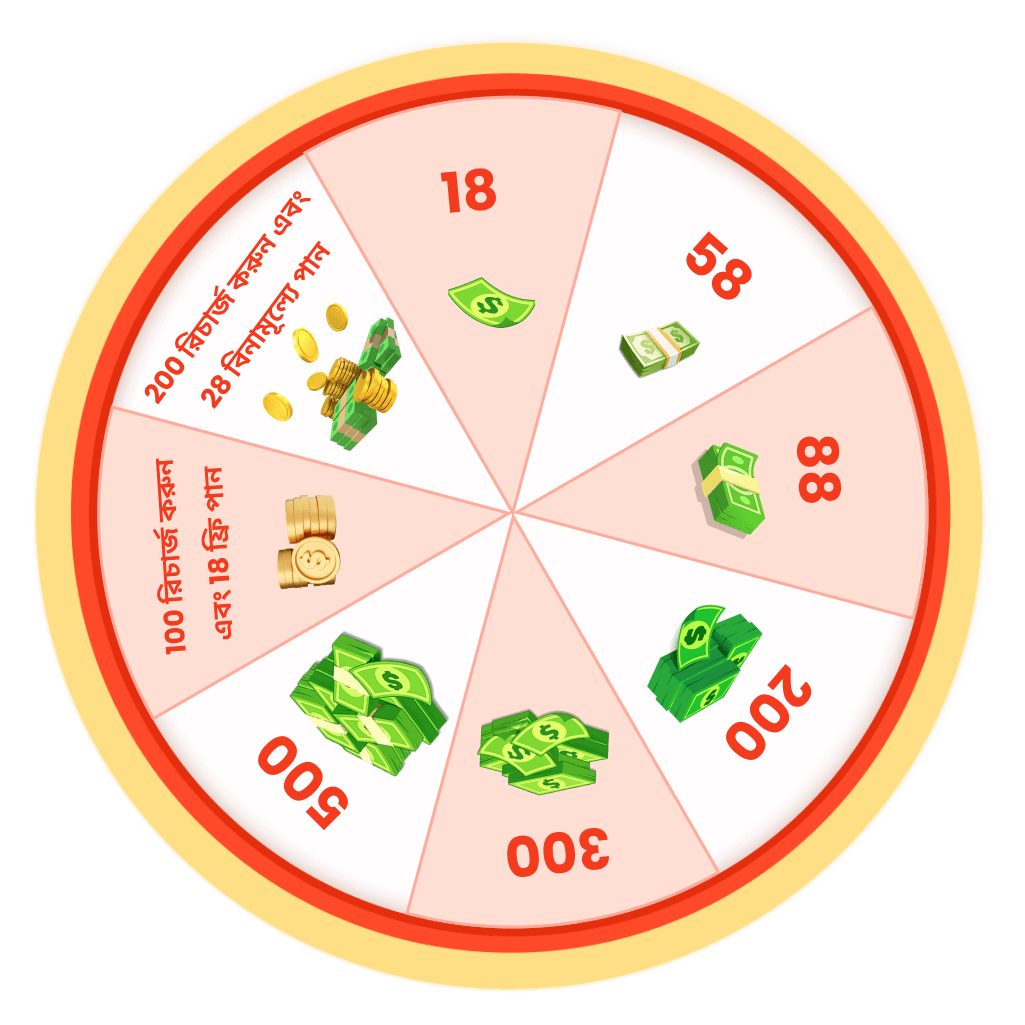
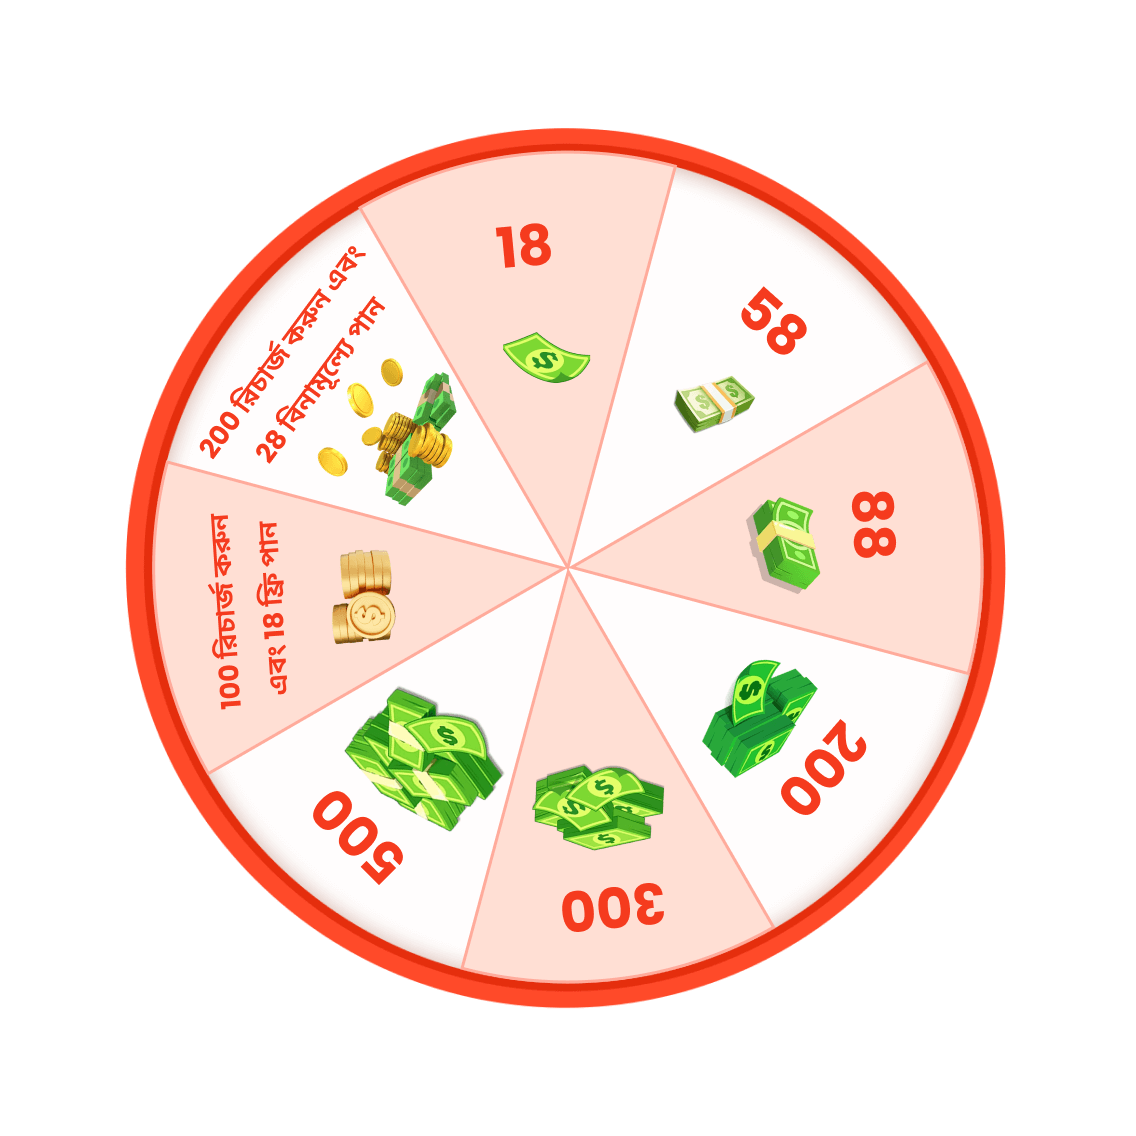
update: [BGD] new user roulette promo - fix wheel not symmetrical issue, ui changes

diff --git a/bgd-static-v1/src/components/hotpromo/newUserRoulette/NewUserRoulette.vue b/bgd-static-v1/src/components/hotpromo/newUserRoulette/NewUserRoulette.vue
@@ -29,10 +29,6 @@
       {{ $t("hotPromo.newPlayerFreeTrial.remainingTime") }}: {{ remainingDraws }}
     </div>
     <div class="spin-wheel-board">
-      <img
-        class="spin-wheel-outer"
-        src="./../../../assets/images/promotion/hotpromo/new-user-roulette/spin-wheel-outer.png"
-      />
       <div id="spin-wheel-id" class="spin-wheel">
         <img
           v-if="languageVal === 'en'"
@@ -47,6 +43,10 @@
           src="./../../../assets/images/promotion/hotpromo/new-user-roulette/spin-wheel-bg-bn.png"
         />
         <div id="spin-wheel-number" class="spin-wheel-number" style="display: none"></div>
+        <img
+          class="spin-wheel-outer"
+          src="./../../../assets/images/promotion/hotpromo/new-user-roulette/spin-wheel-outer.png"
+        />
       </div>
     </div>
   </div>
@@ -279,13 +279,13 @@ const spinWheel = () => {
   //     privilegeId: null
   //   }
   // };
-  // var bonusIndex = 500;
+  // var bonusIndex = "bgd-roulette-deposit-get-18";
   // prizeIndex.value = SPIN_WHEEL_PRIZES.findIndex((prize) => prize === bonusIndex);
   // showRoulette.value = res.data.showRoulette === "YES";
   // spin(prizeIndex.value, () => {
   //   showPrizePopup.value = true;
   //   prizePopupBonus.value = bonusIndex;
-  //   remainingDraws.value = res.data.availableSpin;
+  //   remainingDraws.value = res.data.spinChance;
   // });
   // return;
   //FOr TesTING END
@@ -346,7 +346,8 @@ onMounted(() => {
   text-align: center;
 
   .draw-btn {
-    width: 92px;
+    width: 16vw;
+    max-width: 92px;
     height: auto;
     aspect-ratio: 95 / 117;
     z-index: 25;
@@ -364,7 +365,8 @@ onMounted(() => {
       width: 100%;
     }
     img.hand {
-      width: 50px !important;
+      width: 11vw !important;
+      max-width: 60px;
       position: absolute;
       top: 60%;
       left: 66%;
@@ -419,15 +421,22 @@ onMounted(() => {
     position: relative;
     z-index: 20;
     background-size: contain;
+    .wheel-bg {
+      z-index: 20 !important;
+      position: relative;
+    }
+    .spin-wheel-outer {
+      z-index: 19;
+      position: absolute;
+      width: 91% !important;
+      top: 50%;
+      left: calc(50% - 1px);
+      transform: translate(-50%, -50%);
+    }
   }
 
-  .spin-wheel-outer {
-    z-index: 21;
-    position: absolute;
-    width: 91% !important;
-    top: 50%;
-    left: calc(50% - 1px);
-    transform: translate(-50%, -50%);
+  .spin-wheel {
+    z-index: 20;
   }
 }
 
